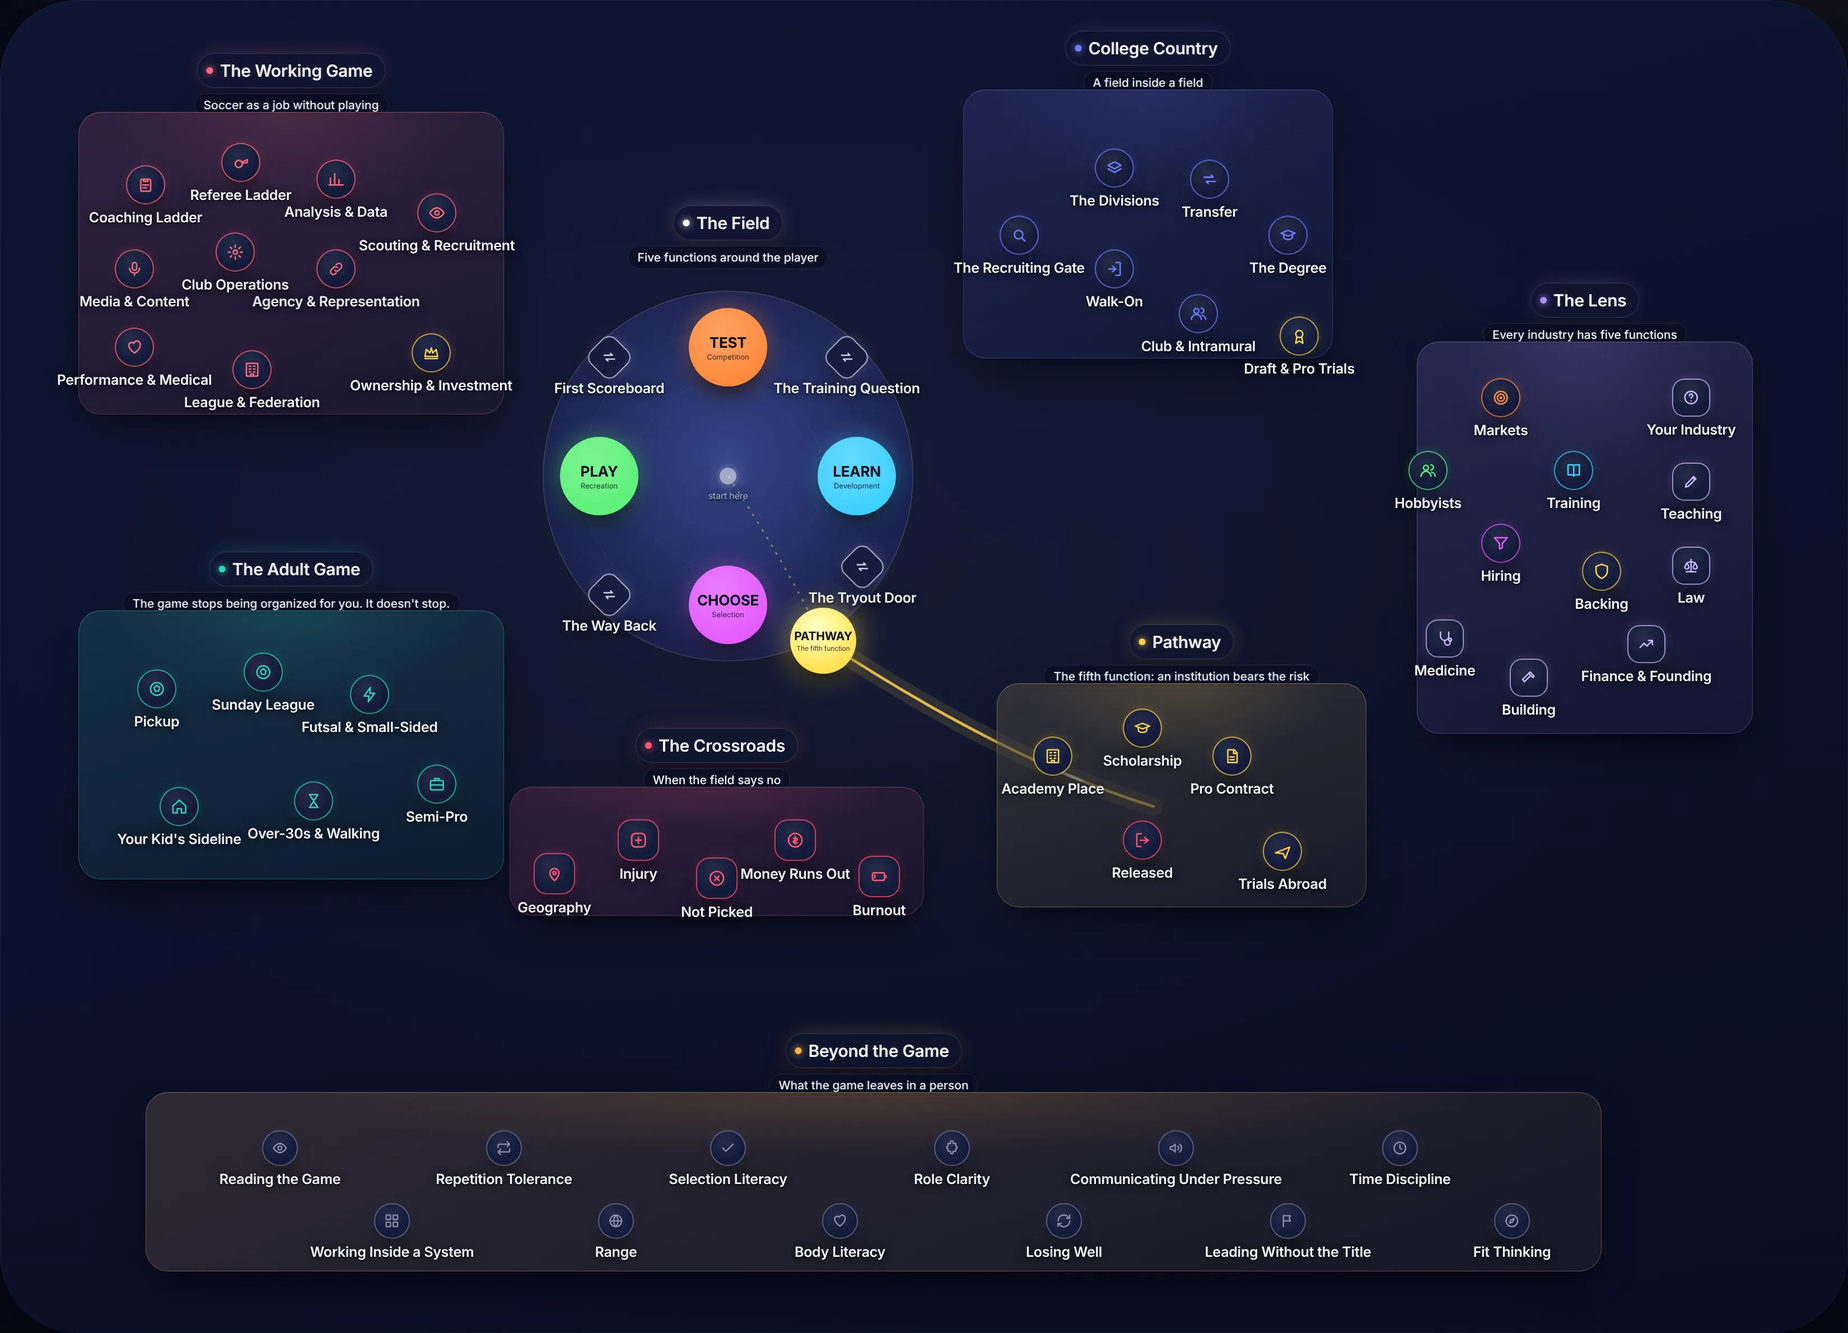
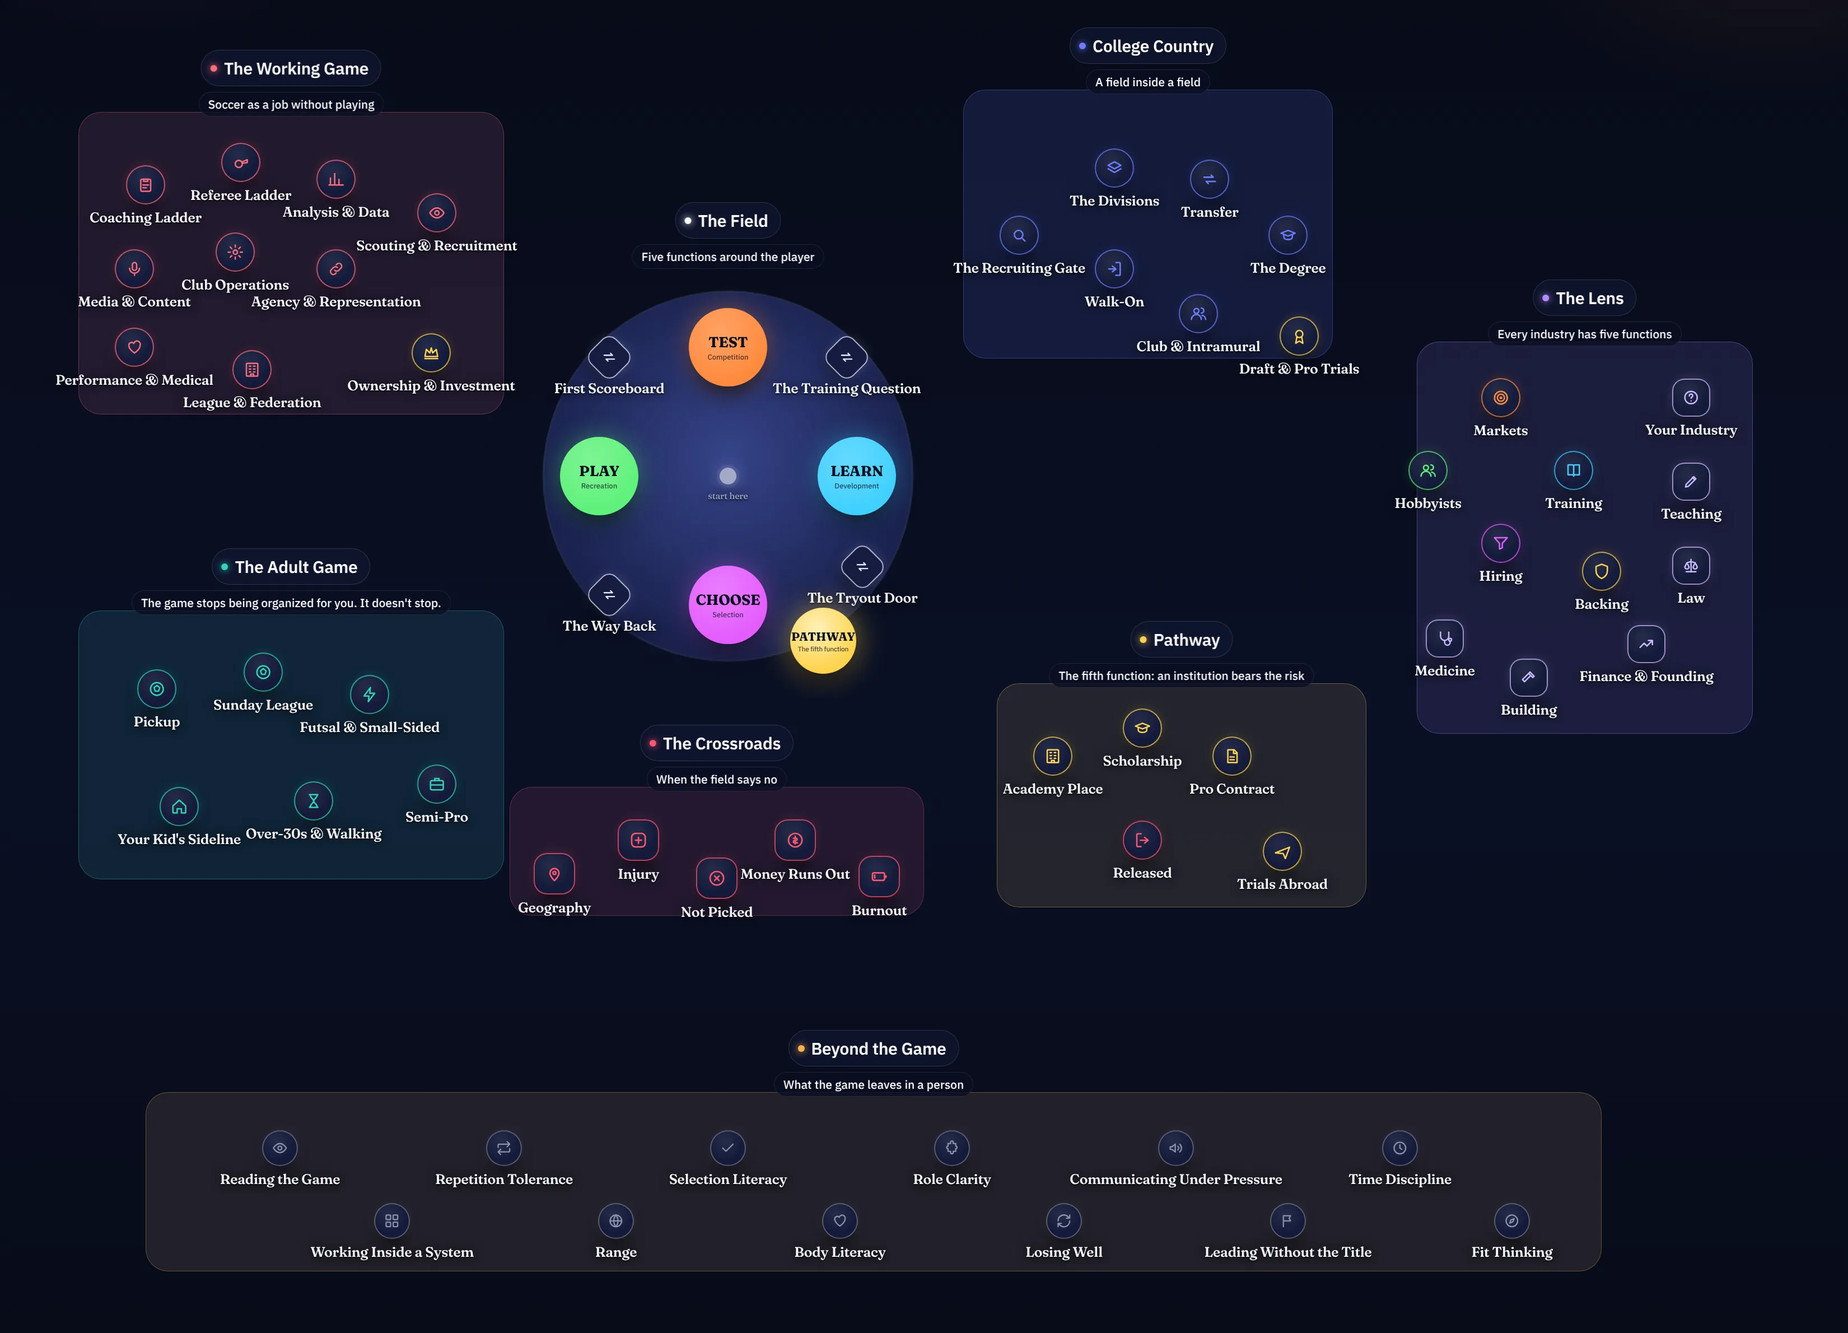
Typeface: Fraunces for headlines, place names and handoff questions; IBM Plex Sans for everything else. Re-baked phone board.
Claude-Session: https://claude.ai/code/session_01PcSYTvXZiUqNHZPTCJpaoc

diff --git a/index.html b/index.html
@@ -23,7 +23,7 @@
 <link rel="apple-touch-icon" href="/icon.png">
 <link rel="preconnect" href="https://fonts.googleapis.com">
 <link rel="preconnect" href="https://fonts.gstatic.com" crossorigin>
-<link href="https://fonts.googleapis.com/css2?family=Inter:wght@400;500;600;700&display=swap" rel="stylesheet">
+<link href="https://fonts.googleapis.com/css2?family=Fraunces:opsz,wght,SOFT,WONK@9..144,500,50,0;9..144,600,50,0;9..144,700,50,0&family=IBM+Plex+Sans:wght@400;500;600;700&display=swap" rel="stylesheet">
 <style>
 :root{
   --tilt:52deg; --zoom:0.62; --px:0px; --py:0px;
@@ -32,10 +32,15 @@
   --play:#5ef17a; --test:#ff8a3d; --learn:#3fd0ff; --choose:#e45cff; --path:#ffd34d;
   --college:#6d7cff; --adult:#2fd4b8; --work:#ff6a7a; --lens:#b48cff; --beyond:#ffb347; --break:#ff5470; --field:#ffffff;
   --hud:60px; --card-w:400px;
-  --font:"Inter", "SF Pro Text", "Segoe UI", system-ui, sans-serif;
+  --font:"IBM Plex Sans", "SF Pro Text", "Segoe UI", system-ui, sans-serif;
+  --head:"Fraunces", "Iowan Old Style", Georgia, serif;
 }
 *{box-sizing:border-box}
-html,body{height:100%;margin:0;overflow:hidden;touch-action:pan-x pan-y;background:var(--bg);color:var(--ink);font-family:var(--font);-webkit-font-smoothing:antialiased;font-feature-settings:"ss01","cv11"}
+html,body{height:100%;margin:0;overflow:hidden;touch-action:pan-x pan-y;background:var(--bg);color:var(--ink);font-family:var(--font);-webkit-font-smoothing:antialiased}
+/* authored voice: the serif carries headlines, place names and the handoff questions; the sans carries everything you read small or tap */
+h2,.brand b,#intro h2,.node .label,.node.fn .puck,.node.bridge .puck,.gq b,.gq em,#jq{font-family:var(--head);font-variation-settings:"SOFT" 50,"WONK" 0;font-style:normal}
+.node .label{font-weight:700}
+.node.fn .puck small,.node.bridge .puck small{font-family:var(--font)}
 button{font-family:inherit;color:inherit;cursor:pointer}
 body.no-select, body.no-select *{user-select:none;-webkit-user-select:none}
 
@@ -286,6 +291,7 @@ body.far .node .label{transition:opacity .3s}
 .art .coins i:nth-child(odd){background:#2a3156;box-shadow:none;border:1.5px solid #3a4270}
 
 /* ---------- mobile ---------- */
+@media (max-width:760px){.brand b{font-size:15.5px;white-space:nowrap}}
 @media (max-width:760px){
   :root{--hud:56px;--card-w:100vw}
   .brand span{display:none}
@@ -438,7 +444,7 @@ body.lite #roads path.road.lit, body.lite #roads path.road.trail{animation:none}
 #card .jactions .btn{flex:1;justify-content:center;text-decoration:none}
 .sbox img{display:block;width:100%;max-height:62vh;object-fit:contain;border-radius:14px;margin:14px 0;background:#070b18}
 #sharefmt{display:flex;gap:4px;background:rgba(255,255,255,.06);border-radius:10px;padding:3px}
-#sharefmt button{border:0;background:transparent;color:var(--muted);font:600 12px/1 Inter,system-ui,sans-serif;letter-spacing:.04em;text-transform:uppercase;padding:7px 12px;border-radius:8px;transition:background .15s,color .15s}
+#sharefmt button{border:0;background:transparent;color:var(--muted);font:600 12px/1 var(--font);letter-spacing:.04em;text-transform:uppercase;padding:7px 12px;border-radius:8px;transition:background .15s,color .15s}
 #sharefmt button.on{background:rgba(255,255,255,.14);color:#fff}
 #share.story .sbox img{max-height:68vh}
 .srow{display:flex;gap:8px}
@@ -501,18 +507,18 @@ body.hasdot #askCtx{display:inline-block}
 .thread .old h2{font-size:16px}
 .fallnote{font-size:12px;color:#ffd9a0;background:rgba(255,211,77,.08);border:1px solid rgba(255,211,77,.25);border-radius:10px;padding:8px 10px;margin:0 0 10px}
 #ask form{display:flex;gap:6px;align-items:center;padding:6px 6px 6px 14px;border-radius:999px;background:rgba(10,14,32,.86);border:1px solid rgba(150,205,255,.35);backdrop-filter:blur(10px);box-shadow:0 14px 40px rgba(0,0,0,.45)}
-#ask input{flex:1;background:transparent;border:0;color:#fff;font:500 14px/1.3 Inter,system-ui,sans-serif;outline:0;min-width:0}
+#ask input{flex:1;background:transparent;border:0;color:#fff;font:500 14px/1.3 var(--font);outline:0;min-width:0}
 #ask input::placeholder{color:#7f88ad}
-#ask #aiBtn{border:1px solid rgba(255,255,255,.18);border-radius:999px;background:transparent;color:#7f88ad;font:700 10px/1 Inter,system-ui,sans-serif;letter-spacing:.08em;padding:7px 9px;cursor:pointer;flex:0 0 auto}
+#ask #aiBtn{border:1px solid rgba(255,255,255,.18);border-radius:999px;background:transparent;color:#7f88ad;font:700 10px/1 var(--font);letter-spacing:.08em;padding:7px 9px;cursor:pointer;flex:0 0 auto}
 #ask #aiBtn.on{border-color:rgba(150,205,255,.7);color:#fff;background:rgba(150,205,255,.16)}
 .thinking{color:var(--muted)}
 .think{display:inline-flex;gap:4px;margin-right:6px;vertical-align:middle}
 .think i{width:6px;height:6px;border-radius:50%;background:#9ccfff;animation:dotp 1.1s infinite ease-in-out}
 .think i:nth-child(2){animation-delay:.18s}.think i:nth-child(3){animation-delay:.36s}
 @keyframes dotp{0%,80%,100%{opacity:.25;transform:translateY(0)}40%{opacity:1;transform:translateY(-3px)}}
-#ask button.go{border:0;border-radius:999px;background:rgba(150,205,255,.22);color:#fff;font:700 12px/1 Inter,system-ui,sans-serif;letter-spacing:.06em;padding:9px 14px;cursor:pointer}
+#ask button.go{border:0;border-radius:999px;background:rgba(150,205,255,.22);color:#fff;font:700 12px/1 var(--font);letter-spacing:.06em;padding:9px 14px;cursor:pointer}
 #ask .chips{display:flex;gap:6px;flex-wrap:wrap;justify-content:center}
-#ask .chips button{border:1px solid rgba(255,255,255,.12);background:rgba(10,14,32,.7);color:#c7cde6;border-radius:999px;padding:5px 11px;font:500 12px/1.2 Inter,system-ui,sans-serif;cursor:pointer;backdrop-filter:blur(8px)}
+#ask .chips button{border:1px solid rgba(255,255,255,.12);background:rgba(10,14,32,.7);color:#c7cde6;border-radius:999px;padding:5px 11px;font:500 12px/1.2 var(--font);cursor:pointer;backdrop-filter:blur(8px)}
 #ask .chips button:hover{border-color:rgba(150,205,255,.5);color:#fff}
 body.cardopen #ask{width:min(640px, calc(100vw - var(--card-w) - 56px));left:calc((100vw - var(--card-w) - 28px) / 2)}
 @media (min-width:1101px){
@@ -555,14 +561,14 @@ body.traffic #tlegend{display:flex}
 #tlegend .l0 i{border-top:2px dashed rgba(255,255,255,.3)}
 #tlegend .lk{color:#ffd9a0;font-weight:600;margin-top:2px}
 #tlegend .tmode{display:flex;gap:3px;background:rgba(255,255,255,.06);border-radius:8px;padding:2px;margin-bottom:4px}
-#tlegend .tmode button{flex:1;border:0;background:transparent;color:var(--muted);font:600 11px/1 Inter,system-ui,sans-serif;padding:6px 8px;border-radius:6px;cursor:pointer}
+#tlegend .tmode button{flex:1;border:0;background:transparent;color:var(--muted);font:600 11px/1 var(--font);padding:6px 8px;border-radius:6px;cursor:pointer}
 #tlegend .tmode button.on{background:rgba(255,255,255,.14);color:#fff}
 body.tdemo #tbanner{background:rgba(255,179,71,.14);border-color:rgba(255,179,71,.55);color:#ffd9a0}
 body:not(.tdemo) #tbanner{background:rgba(150,205,255,.12);border-color:rgba(150,205,255,.45);color:#cfe6ff}
 .legs{display:flex;flex-direction:column;gap:6px;margin:8px 0 12px}
 .leg{display:grid;grid-template-columns:22px 1fr auto;gap:10px;align-items:center;padding:8px 10px;border-radius:12px;background:rgba(150,205,255,.08);border:1px solid rgba(150,205,255,.25)}
 .leg.dark{background:rgba(255,255,255,.03);border-style:dashed;border-color:rgba(255,255,255,.18)}
-.leg i{width:22px;height:22px;border-radius:50%;background:rgba(255,255,255,.1);display:grid;place-items:center;font:700 11px/1 Inter,system-ui,sans-serif;color:#fff;font-style:normal}
+.leg i{width:22px;height:22px;border-radius:50%;background:rgba(255,255,255,.1);display:grid;place-items:center;font:700 11px/1 var(--font);color:#fff;font-style:normal}
 .leg b{display:block;font-size:13.5px;font-weight:600;color:#fff}
 .leg.dark b{color:#aab2d0}
 .leg > div > span{font-size:12px;color:var(--muted)}
@@ -586,7 +592,7 @@ body.lite #roads path.road.season{filter:none}
 .seasons .sn{display:grid;grid-template-columns:18px 1fr;gap:10px;align-items:start;padding:0 0 12px;position:relative}
 .seasons .sn:before{content:"";position:absolute;left:8px;top:18px;bottom:-2px;width:2px;background:rgba(255,255,255,.12)}
 .seasons .sn:last-child:before{display:none}
-.seasons .sn i{width:18px;height:18px;border-radius:50%;background:rgba(255,255,255,.08);border:2px solid var(--c);display:grid;place-items:center;font:700 9px/1 Inter,system-ui,sans-serif;color:#fff;margin-top:1px}
+.seasons .sn i{width:18px;height:18px;border-radius:50%;background:rgba(255,255,255,.08);border:2px solid var(--c);display:grid;place-items:center;font:700 9px/1 var(--font);color:#fff;margin-top:1px}
 .seasons .sn:last-child i{background:var(--c);box-shadow:0 0 12px var(--c)}
 .seasons .sn b{display:block;font-size:14px;color:#fff;font-weight:600}
 .seasons .sn span{font-size:12.5px;color:var(--muted)}
@@ -607,7 +613,7 @@ body.lite #roads path.road.season{filter:none}
 .jfrom .roadsum b{color:#fff}
 .jfrom .askh{margin:12px 0 6px;font-size:11px;letter-spacing:.1em;text-transform:uppercase;color:#9ccfff;font-weight:600}
 .jfrom .chips{display:flex;flex-wrap:wrap;gap:6px}
-.jfrom .chips button{border:1px solid rgba(150,205,255,.28);background:rgba(10,14,32,.5);color:#dbe4ff;border-radius:999px;padding:6px 11px;font:500 12px/1.25 Inter,system-ui,sans-serif;cursor:pointer;text-align:left}
+.jfrom .chips button{border:1px solid rgba(150,205,255,.28);background:rgba(10,14,32,.5);color:#dbe4ff;border-radius:999px;padding:6px 11px;font:500 12px/1.25 var(--font);cursor:pointer;text-align:left}
 .jfrom .chips button:hover{border-color:rgba(150,205,255,.7);color:#fff}
 .waysin{display:flex;gap:8px;flex-wrap:wrap;justify-content:center;margin:14px 0 6px}
 .waysin .btn{font-size:13px}
@@ -615,9 +621,9 @@ body.lite #roads path.road.season{filter:none}
 .nudge h4{margin:0 0 6px;font-size:11px;letter-spacing:.1em;text-transform:uppercase;color:#ffd9a0;font-weight:600}
 .nudge p{font-size:13px;margin:0 0 8px;color:#dde2f5}
 .nudge form{display:flex;gap:6px}
-.nudge input{flex:1;min-width:0;background:rgba(0,0,0,.3);border:1px solid rgba(255,255,255,.14);border-radius:10px;padding:9px 12px;color:#fff;font:500 14px/1.2 Inter,system-ui,sans-serif;outline:0}
+.nudge input{flex:1;min-width:0;background:rgba(0,0,0,.3);border:1px solid rgba(255,255,255,.14);border-radius:10px;padding:9px 12px;color:#fff;font:500 14px/1.2 var(--font);outline:0}
 .nudge input:focus{border-color:rgba(255,211,77,.6)}
-.nudge button{border:0;border-radius:10px;background:#ffd34d;color:#0b1020;font:700 13px/1 Inter,system-ui,sans-serif;padding:9px 14px;cursor:pointer}
+.nudge button{border:0;border-radius:10px;background:#ffd34d;color:#0b1020;font:700 13px/1 var(--font);padding:9px 14px;cursor:pointer}
 .nudge .fine{font-size:11.5px;color:var(--muted);margin:8px 0 0}
 .nudge.done p{color:#bfffd2}
 #journey.checkin .jbox{box-shadow:0 0 0 1px rgba(255,211,77,.4), 0 30px 80px rgba(0,0,0,.6)}
@@ -1771,9 +1777,9 @@ function drawShareCard(fmtName){
   const g = c.createLinearGradient(0,0,0,H); g.addColorStop(0,"#0b1128"); g.addColorStop(1,"#070b18"); c.fillStyle = g; c.fillRect(0,0,W,H);
   const rg = c.createRadialGradient(540,F.cy,40,540,F.cy,700); rg.addColorStop(0,"rgba(63,208,255,.10)"); rg.addColorStop(1,"rgba(0,0,0,0)"); c.fillStyle = rg; c.fillRect(0,0,W,H);
   c.fillStyle = "#fff"; c.textAlign = "left"; c.textBaseline = "alphabetic";
-  c.font = "700 64px Inter, system-ui, sans-serif"; c.fillText(a.who === "parent" ? "Our soccer journey" : a.who === "player" ? "My soccer journey" : "A soccer journey", 72, F.titleY);
-  c.font = "500 30px Inter, system-ui, sans-serif"; c.fillStyle = "#aab2d0"; c.fillText(journeyLine(a), 72, F.titleY + 52);
-  if(j.seasons && j.seasons.length > 1){ const sn = j.seasons; const line = sn.map(x => (byId[x.pos] ? byId[x.pos].t : x.pos)).join("  →  "); c.font = "600 26px Inter, system-ui, sans-serif"; c.fillStyle = "#ffd34d"; c.fillText(`Season ${sn.length}: ` + line, 72, F.titleY + 96); }
+  c.font = "600 64px Fraunces, Georgia, serif"; c.fillText(a.who === "parent" ? "Our soccer journey" : a.who === "player" ? "My soccer journey" : "A soccer journey", 72, F.titleY);
+  c.font = "500 30px \"IBM Plex Sans\", system-ui, sans-serif"; c.fillStyle = "#aab2d0"; c.fillText(journeyLine(a), 72, F.titleY + 52);
+  if(j.seasons && j.seasons.length > 1){ const sn = j.seasons; const line = sn.map(x => (byId[x.pos] ? byId[x.pos].t : x.pos)).join("  →  "); c.font = "600 26px \"IBM Plex Sans\", system-ui, sans-serif"; c.fillStyle = "#ffd34d"; c.fillText(`Season ${sn.length}: ` + line, 72, F.titleY + 96); }
   // board
   const cx = 540, cy = F.cy, R = F.R;
   c.fillStyle = "rgba(255,255,255,.04)"; c.beginPath(); c.arc(cx, cy, R+40, 0, Math.PI*2); c.fill();
@@ -1781,18 +1787,18 @@ function drawShareCard(fmtName){
   const pads = { play:[cx-R*0.7, cy, cssColor("var(--play)"), "PLAY"], test:[cx, cy-R*0.7, cssColor("var(--test)"), "TEST"], learn:[cx+R*0.7, cy, cssColor("var(--learn)"), "LEARN"], choose:[cx, cy+R*0.7, cssColor("var(--choose)"), "CHOOSE"], bridge:[cx+R*0.72, cy+R*0.72, cssColor("var(--path)"), "PATHWAY"] };
   // gold arc
   c.strokeStyle = "rgba(255,211,77,.9)"; c.lineWidth = 6; c.lineCap = "round"; c.beginPath(); c.moveTo(cx+R*1.35, cy+R*1.25); c.quadraticCurveTo(cx+R*1.0, cy+R*1.0, pads.bridge[0], pads.bridge[1]); c.stroke();
-  Object.entries(pads).forEach(([id,[x,y,col,label]]) => { const r = id==="bridge" ? 44 : 54; c.fillStyle = col; c.shadowColor = col; c.shadowBlur = 30; c.beginPath(); c.arc(x,y,r,0,Math.PI*2); c.fill(); c.shadowBlur = 0; c.fillStyle = "#0b1020"; c.font = `800 ${id==="bridge"?18:22}px Inter, system-ui, sans-serif`; c.textAlign = "center"; c.textBaseline = "middle"; c.fillText(label, x, y); });
+  Object.entries(pads).forEach(([id,[x,y,col,label]]) => { const r = id==="bridge" ? 44 : 54; c.fillStyle = col; c.shadowColor = col; c.shadowBlur = 30; c.beginPath(); c.arc(x,y,r,0,Math.PI*2); c.fill(); c.shadowBlur = 0; c.fillStyle = "#0b1020"; c.font = `800 ${id==="bridge"?18:22}px \"IBM Plex Sans\", system-ui, sans-serif`; c.textAlign = "center"; c.textBaseline = "middle"; c.fillText(label, x, y); });
   c.fillStyle = "#fff"; c.beginPath(); c.arc(cx, cy, 9, 0, Math.PI*2); c.fill();
   // crossroads row
   const cross = ["notpicked","injury","money","geo","burnout"]; const rowY = cy + R + 130; const gap = 190; const startX = cx - gap*2;
-  cross.forEach((id,i) => { const x = startX + i*gap; const on = d.pos===id || d.flags.includes(id); roundRect(c, x-78, rowY-30, 156, 60, 18); c.fillStyle = on ? "rgba(255,84,112,.22)" : "rgba(255,255,255,.04)"; c.fill(); c.strokeStyle = on ? cssColor("var(--break)") : "rgba(255,255,255,.1)"; c.lineWidth = 2; c.stroke(); c.fillStyle = on ? "#fff" : "#8a90ad"; c.font = "600 20px Inter, system-ui, sans-serif"; c.textAlign = "center"; c.textBaseline = "middle"; c.fillText(byId[id].t, x, rowY); });
+  cross.forEach((id,i) => { const x = startX + i*gap; const on = d.pos===id || d.flags.includes(id); roundRect(c, x-78, rowY-30, 156, 60, 18); c.fillStyle = on ? "rgba(255,84,112,.22)" : "rgba(255,255,255,.04)"; c.fill(); c.strokeStyle = on ? cssColor("var(--break)") : "rgba(255,255,255,.1)"; c.lineWidth = 2; c.stroke(); c.fillStyle = on ? "#fff" : "#8a90ad"; c.font = "600 20px \"IBM Plex Sans\", system-ui, sans-serif"; c.textAlign = "center"; c.textBaseline = "middle"; c.fillText(byId[id].t, x, rowY); });
   // position marker
   let px, py; if(pads[d.pos]){ [px,py] = pads[d.pos]; } else { const k = cross.indexOf(d.pos); px = startX + k*gap; py = rowY; }
   c.strokeStyle = "#fff"; c.lineWidth = 5; c.beginPath(); if(pads[d.pos]){ c.arc(px, py, 74, 0, Math.PI*2); } else { roundRect(c, px-88, py-40, 176, 80, 24); } c.stroke();
-  c.fillStyle = "#fff"; c.font = "800 22px Inter, system-ui, sans-serif"; c.textAlign = "center"; c.textBaseline = "alphabetic"; c.fillText("YOU ARE HERE", px, py - (pads[d.pos] ? 96 : 58));
+  c.fillStyle = "#fff"; c.font = "800 22px \"IBM Plex Sans\", system-ui, sans-serif"; c.textAlign = "center"; c.textBaseline = "alphabetic"; c.fillText("YOU ARE HERE", px, py - (pads[d.pos] ? 96 : 58));
   // attributes
-  c.textAlign = "left"; c.textBaseline = "alphabetic"; c.fillStyle = "#aab2d0"; c.font = "600 22px Inter, system-ui, sans-serif"; c.fillText("ALREADY CARRYING", 72, rowY + 112);
-  let x = 72, y = rowY + 140; c.font = "500 24px Inter, system-ui, sans-serif";
+  c.textAlign = "left"; c.textBaseline = "alphabetic"; c.fillStyle = "#aab2d0"; c.font = "600 22px \"IBM Plex Sans\", system-ui, sans-serif"; c.fillText("ALREADY CARRYING", 72, rowY + 112);
+  let x = 72, y = rowY + 140; c.font = "500 24px \"IBM Plex Sans\", system-ui, sans-serif";
   const maxY = F.ctaY - 46 - 56; // last chip row must clear the divider
   const chip = (t) => { const w = c.measureText(t).width + 44; if(x + w > 1008){ x = 72; y += 58; } if(y > maxY) return false; roundRect(c, x, y, w, 46, 23); c.fillStyle = "rgba(255,179,71,.14)"; c.fill(); c.strokeStyle = "rgba(255,179,71,.5)"; c.lineWidth = 2; c.stroke(); c.fillStyle = "#fff"; c.textBaseline = "middle"; c.fillText(t, x+22, y+24); c.textBaseline = "alphabetic"; x += w + 12; return true; };
   const rowsFit = Math.max(1, Math.floor((maxY - y) / 58) + 1);
@@ -1805,13 +1811,15 @@ function drawShareCard(fmtName){
   const cy2 = F.ctaY;
   c.fillStyle = "rgba(255,255,255,.08)"; c.fillRect(72, cy2 - 46, 936, 1);
   c.textAlign = "left"; c.textBaseline = "alphabetic";
-  c.fillStyle = "#aab2d0"; c.font = "600 22px Inter, system-ui, sans-serif"; c.fillText("WHERE IS YOUR DOT?", 72, cy2);
-  c.fillStyle = "#fff"; c.font = "800 40px Inter, system-ui, sans-serif"; c.fillText("Map yours at soccersjourney.com", 72, cy2 + 46);
-  c.fillStyle = "#aab2d0"; c.font = "500 24px Inter, system-ui, sans-serif"; c.fillText((j.n ? `Journey #${fmt(j.n)} · ` : "") + "The Five Functions · @JeremiahWhiteIII", 72, cy2 + 84);
+  c.fillStyle = "#aab2d0"; c.font = "600 22px \"IBM Plex Sans\", system-ui, sans-serif"; c.fillText("WHERE IS YOUR DOT?", 72, cy2);
+  c.fillStyle = "#fff"; c.font = "600 40px Fraunces, Georgia, serif"; c.fillText("Map yours at soccersjourney.com", 72, cy2 + 46);
+  c.fillStyle = "#aab2d0"; c.font = "500 24px \"IBM Plex Sans\", system-ui, sans-serif"; c.fillText((j.n ? `Journey #${fmt(j.n)} · ` : "") + "The Five Functions · @JeremiahWhiteIII", 72, cy2 + 84);
   return cv;
 }
 let shareFmt = store.get("sj.cardfmt", matchMedia("(hover:none)").matches ? "story" : "post");
 function renderShareImage(){
+  /* make sure the serif is in before the card draws, then redraw once it lands */
+  if(document.fonts && !renderShareImage._fontsReady){ document.fonts.load('600 64px Fraunces').then(() => { renderShareImage._fontsReady = true; if(!$("#share").classList.contains("hide")) renderShareImage(); }); }
   const cv = drawShareCard(shareFmt); const url = cv.toDataURL("image/png");
   $("#shareImg").src = url; $("#shareDl").href = url; $("#shareDl").download = shareFmt === "story" ? "soccers-journey-story.png" : "soccers-journey.png";
   $("#share").classList.toggle("story", shareFmt === "story");
